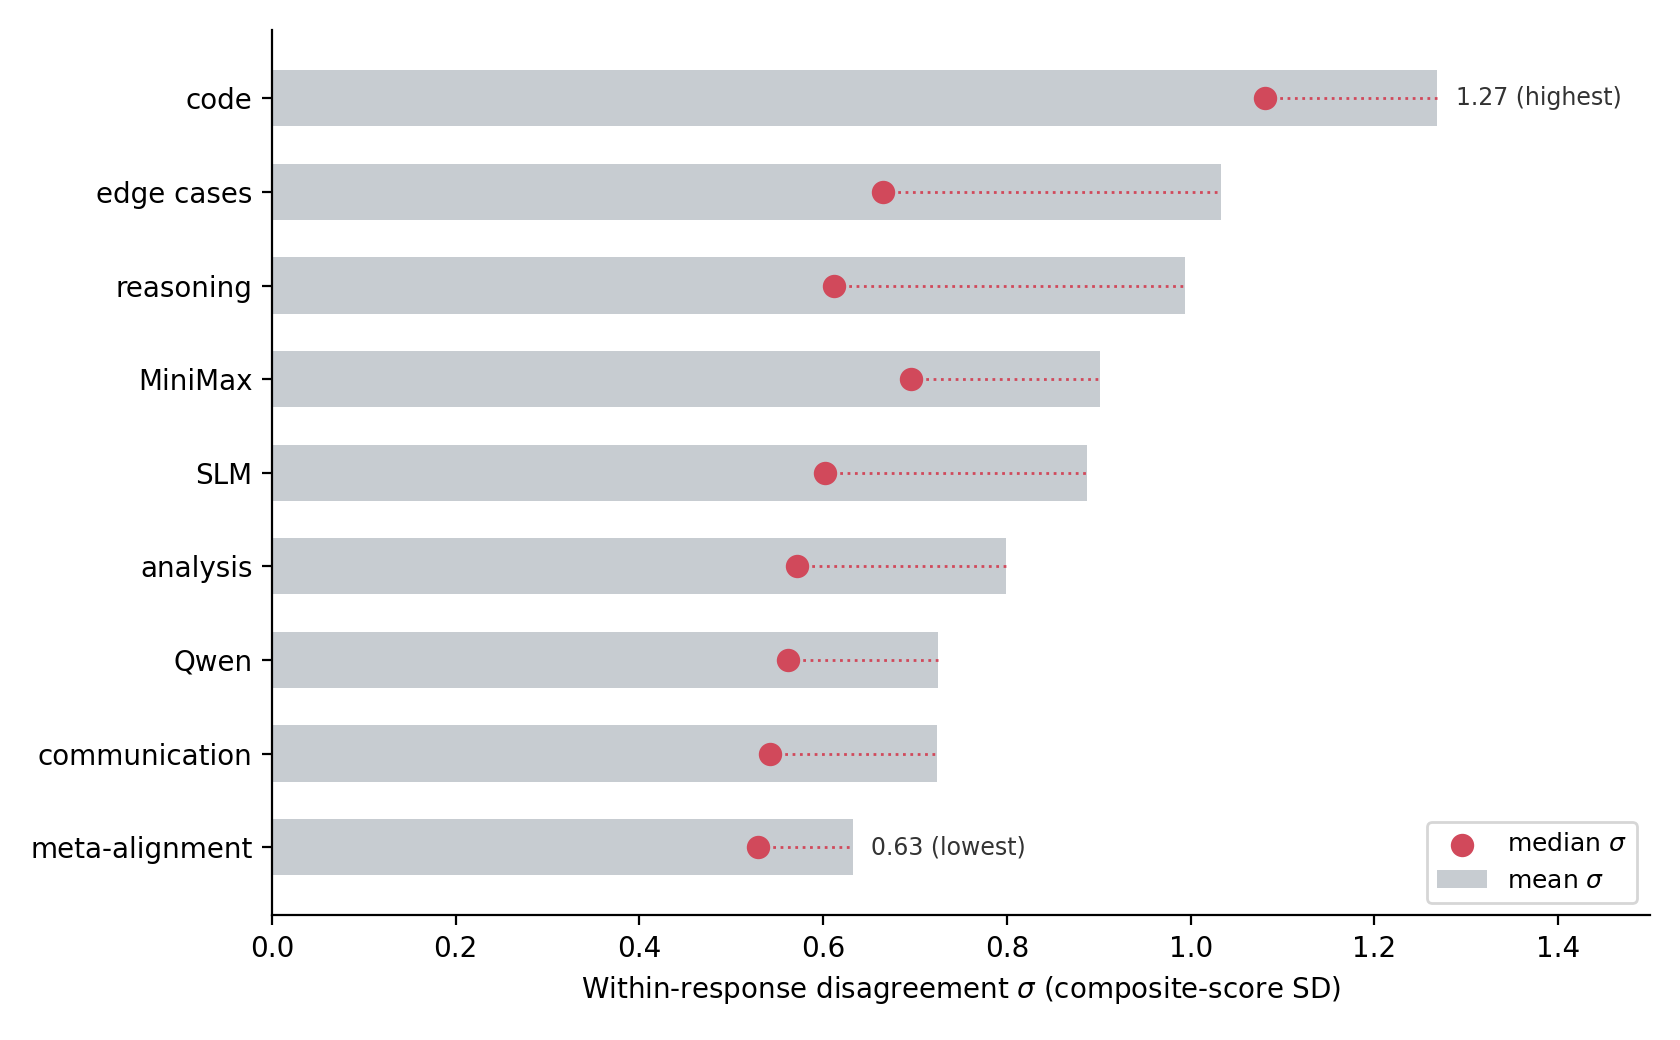
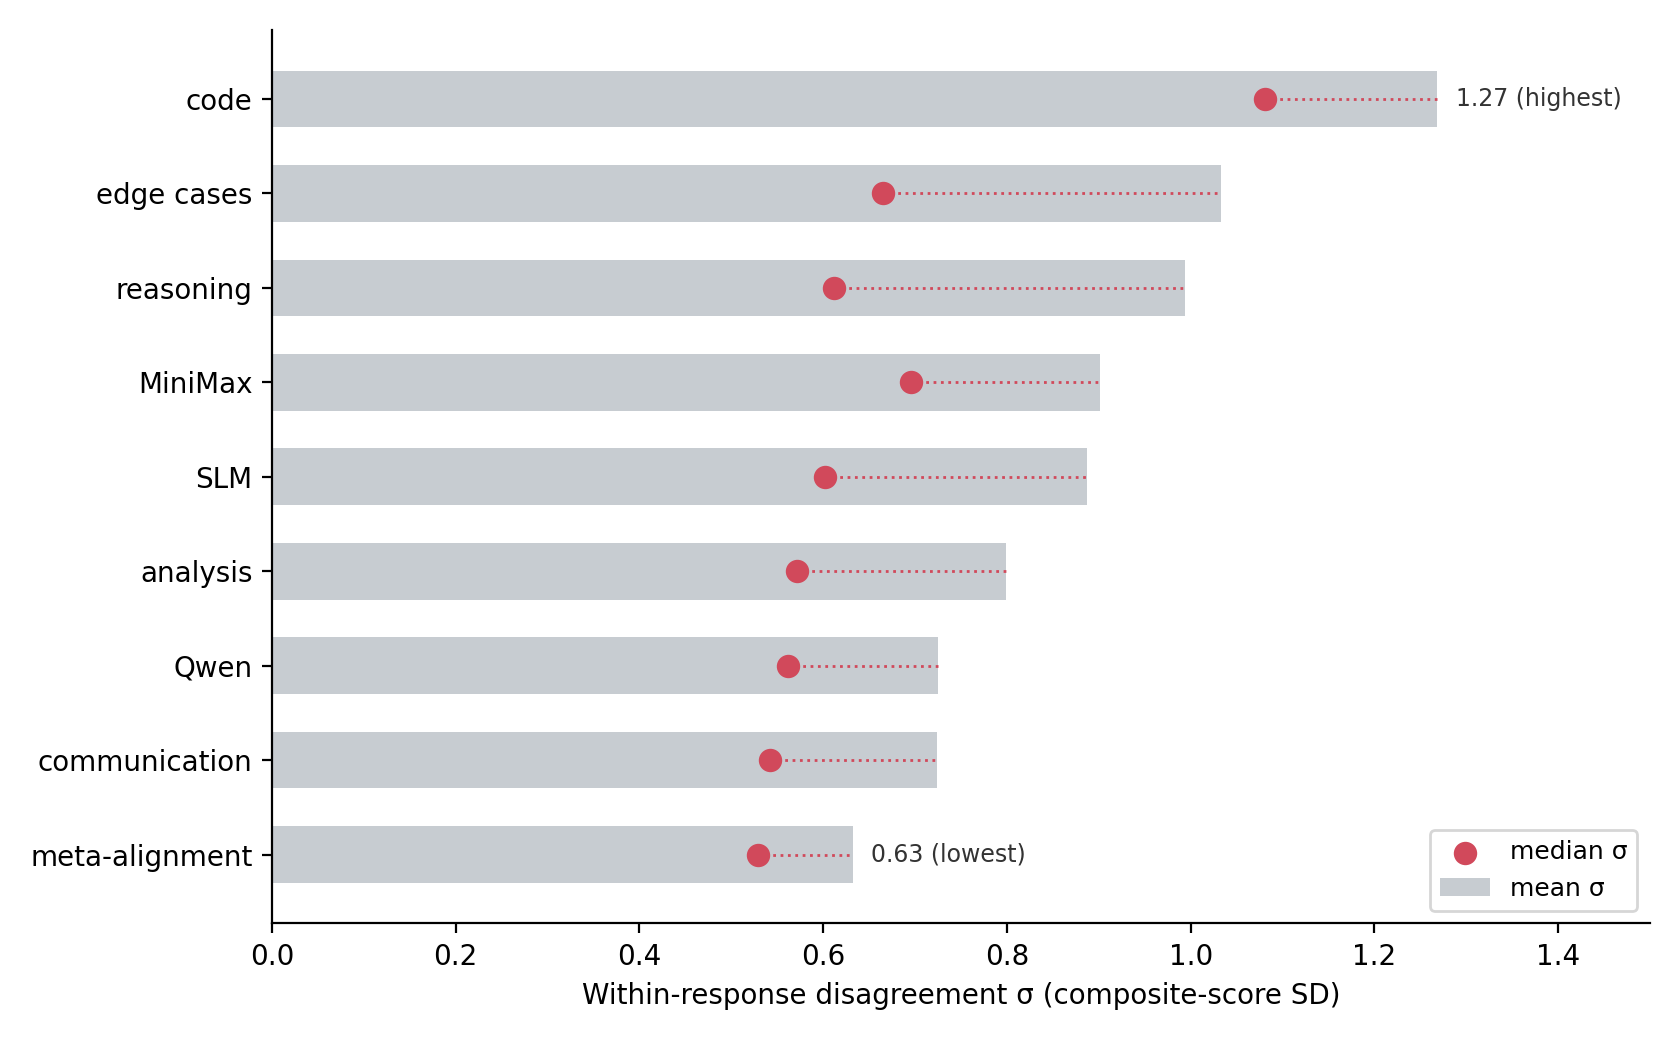
Fix remaining figure LaTeX-isms: Fig 2 y-axis (0--10) en-dash; Fig 3 sigma to Unicode
Missed in the prior pass: make_fig_refusal.py y-axis label used the LaTeX en-dash
"(0--10)" (rendered as two hyphens) -> real en-dash "(0–10)". Also convert
make_fig_disagreement.py mathtext $\sigma$ to a plain Unicode "σ" so no figure
carries any LaTeX markup. Regenerate figures; rebuild non-anonymous PDF. Verified
no "0--10", "Bradley--Terry", "\%", or "incl.\ " remains in the built PDF.

diff --git a/scripts/make_fig_disagreement.py b/scripts/make_fig_disagreement.py
@@ -26,8 +26,8 @@ def main():
     means = [mean[c] for c in cats]; meds = [med[c] for c in cats]
 
     fig, ax = plt.subplots(figsize=(8.4, 5.2))
-    ax.barh(y, means, color="#c7ccd1", height=0.6, label="mean $\\sigma$", zorder=2)
-    ax.scatter(meds, y, color="#d1495b", s=55, zorder=4, label="median $\\sigma$")
+    ax.barh(y, means, color="#c7ccd1", height=0.6, label="mean σ", zorder=2)
+    ax.scatter(meds, y, color="#d1495b", s=55, zorder=4, label="median σ")
     for yi, c in zip(y, cats):
         ax.plot([med[c], mean[c]], [yi, yi], color="#d1495b", lw=1, ls=":", zorder=3)
     # highlight the headline extremes: code (highest) and meta-alignment (lowest)
@@ -37,7 +37,7 @@ def main():
 
     ax.set_yticks(y); ax.set_yticklabels([LABEL[c] for c in cats], fontsize=10)
     ax.invert_yaxis()
-    ax.set_xlabel("Within-response disagreement $\\sigma$ (composite-score SD)")
+    ax.set_xlabel("Within-response disagreement σ (composite-score SD)")
     ax.set_xlim(0, 1.5)
     ax.legend(loc="lower right", fontsize=9, frameon=True)
     for s in ("top", "right"):

diff --git a/scripts/make_fig_refusal.py b/scripts/make_fig_refusal.py
@@ -42,7 +42,7 @@ def main():
     ax.text(n_high + (len(ctrl) - 1) / 2, 10.2, "zero-refusal frontier (control)",
             ha="center", fontsize=9, style="italic")
     ax.set_xticks(x); ax.set_xticklabels(labels, rotation=30, ha="right", fontsize=9)
-    ax.set_ylabel("Mean composite score (0--10)")
+    ax.set_ylabel("Mean composite score (0–10)")
     ax.set_ylim(0, 11); ax.set_yticks(range(0, 11, 2))
     ax.legend(loc="lower left", fontsize=9, frameon=True)
     for s in ("top", "right"):